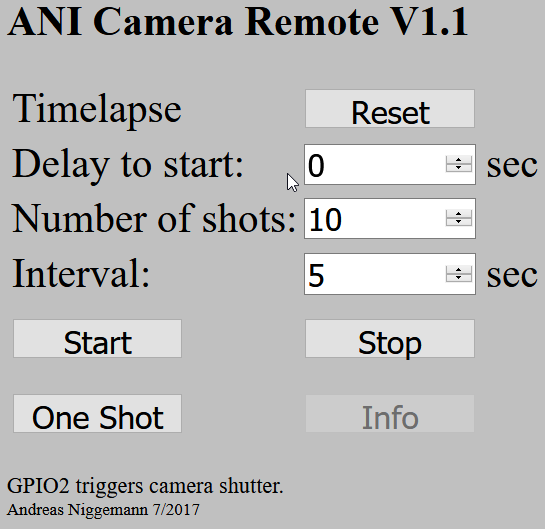
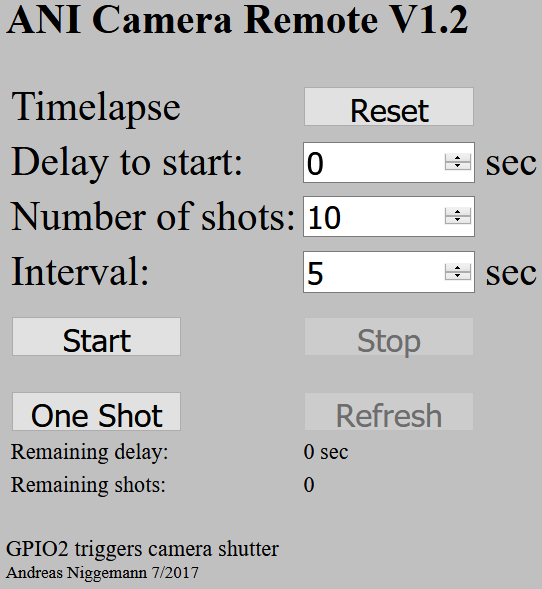
Autorefresh added

diff --git a/README.md b/README.md
@@ -24,7 +24,7 @@ What to do
 * Compile the file ANI_CameraRemote.ino in the Arduino IDE and upload it to your ESP8266 device simply by pressing CTRL-U in the IDE
   * Sometimes you had to adjust the upload speed (in "Tools" in the IDEs menu)
 * Connect the GPIO2 of the ESP8266 device to your remote release 
-  * GPIO2 is the fifth pin (from the top, antenna facing up, usb facing down) on the right side of the module
+  * GPIO2 is the fifth pin (from the top, antenna facing up, USB facing down) on the right side of the module
   * Best practice is to buy a cable with a camera connector on one end and a separate connector on the push button end (e.g. 3.5mm jack plug)
   * Connect a matching jack to GPIO2
   * Connect your remote release cable to the jack and the other end to your camera  
@@ -38,15 +38,16 @@ What to do
 
 WebGUI
 -
-![webGUI](webGUI_ANI_Camera_Remote.png)
+![webGUI](webGUI_ANI_Camera_Remote.png) ![webGUI Autorefresh](webGUI_ANI_Camera_Remote_autorefresh.png)
 
 Usage
 -
 * For single shots, press "One Shot"
 * To start timelapse, input the delay for the timelapse to start, the number of shots and the time between the shots, then press "Start"
 * At any time it is possible to stop the timelapse operation by pressing "Stop"
-* "Reset" will stop any operation and will reset the delay to start, the number of shots and the time between shots to their default values
-* Timelapse mode only: "Info" will show how many seconds are left to start the timelapse and how many shots are left 
+* Timelapse mode only: "Refresh" will show how many seconds are left to start the timelapse and how many shots are left 
+* During timelapse mode the webGUI will refresh its page every 60 seconds
+* "Reset" will reset the delay to start, the number of shots and the time between shots to their default values
 * There is no need to shutdown the ESP8266, just remove the power
 
 Settings
@@ -59,17 +60,19 @@ The settings can be changed at the beginning of the file ANI_CameraRemote.ino
 * default_delayToStart = 0 - Delay in seconds till start of timelapse
 * default_numberOfShots = 10 - Number of shots in timelapse mode
 * default_delayBetweenShots = 5 - Delay between shots in timelapse mode
+* default_autorefresh = 60 - In timelapse mode autorefresh webGUI every 60 seconds, 0 = autorefresh off
+
 
 Why you should choose a NodeMCU over any other ESP8266 device
 -
 * NodeMCU contains everything to start the easy way in ESP8266 programming
-	* Standard pin spacing (no SMD soldering)
-	* Integrated antenna
-	* MicroUSB connector for programming and power supply
-	* No need to connect GPIO0 to GND for programming mode
-	* Integrated LED on GPIO2
-  	* No need for an extra CP2102 interface, a CH340G is build in	
-	* Programming in LUA or c++
+  * Standard pin spacing (no SMD soldering)
+  * Integrated antenna
+  * MicroUSB connector for programming and power supply
+  * No need to connect GPIO0 to GND for programming mode
+  * Integrated LED on GPIO2
+  * No need for an extra CP2102 interface, a CH340G is build in	
+  * Programming in LUA or c++
 * Support by a large community providing examples and instructions for free
 * Easy to mount on a breadboard (better than ESP-01 etc.)
 * Low cost (less than 10 Euro)
